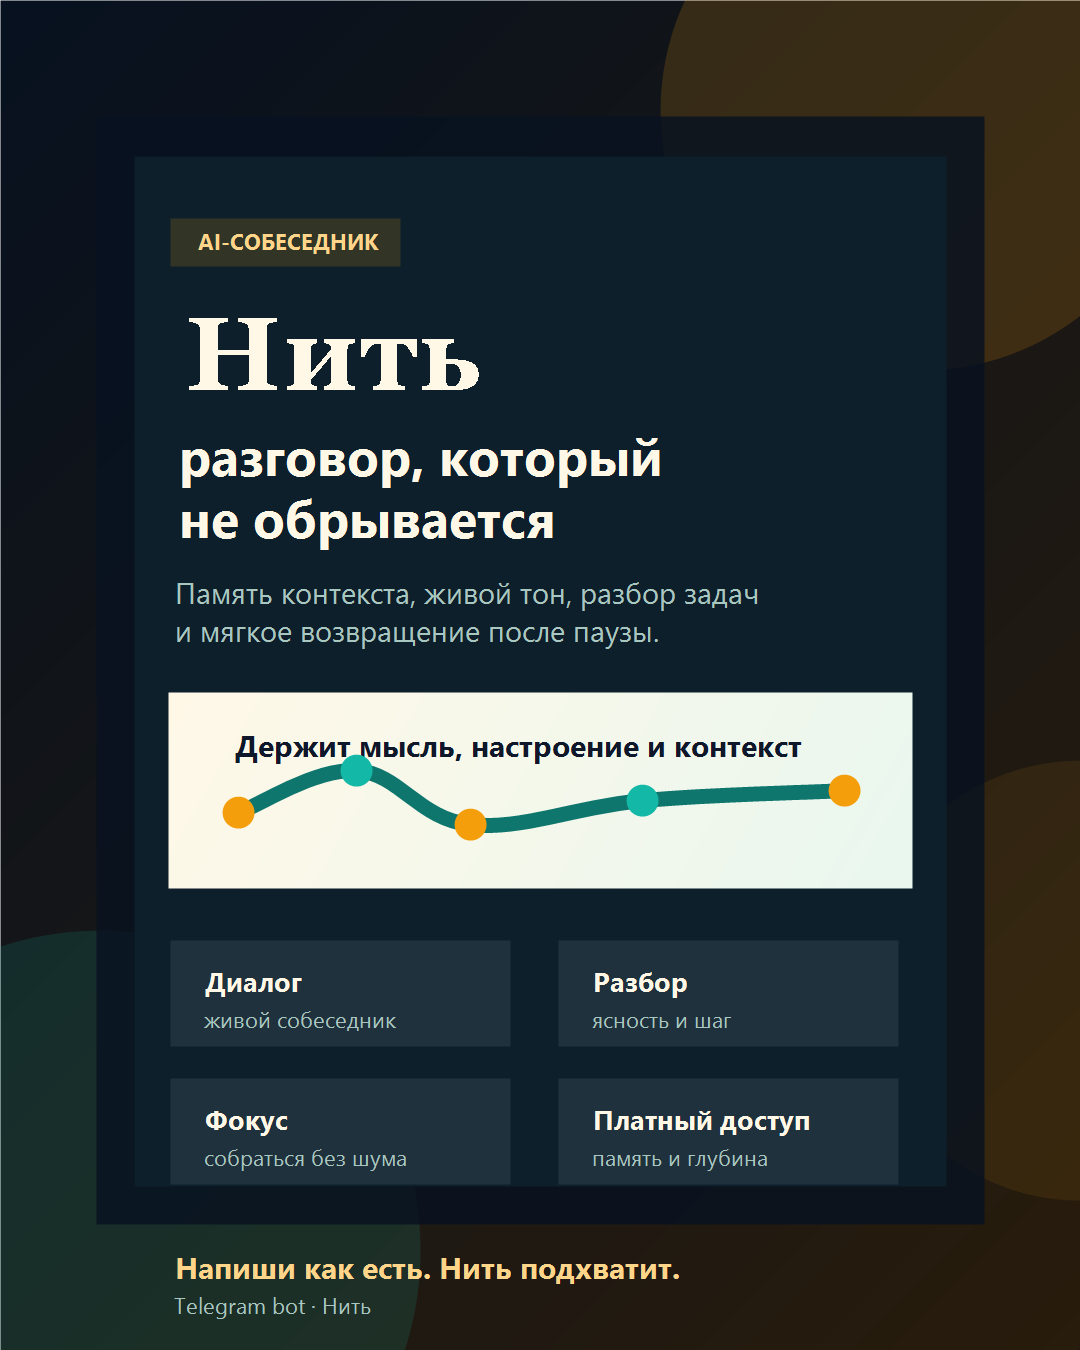
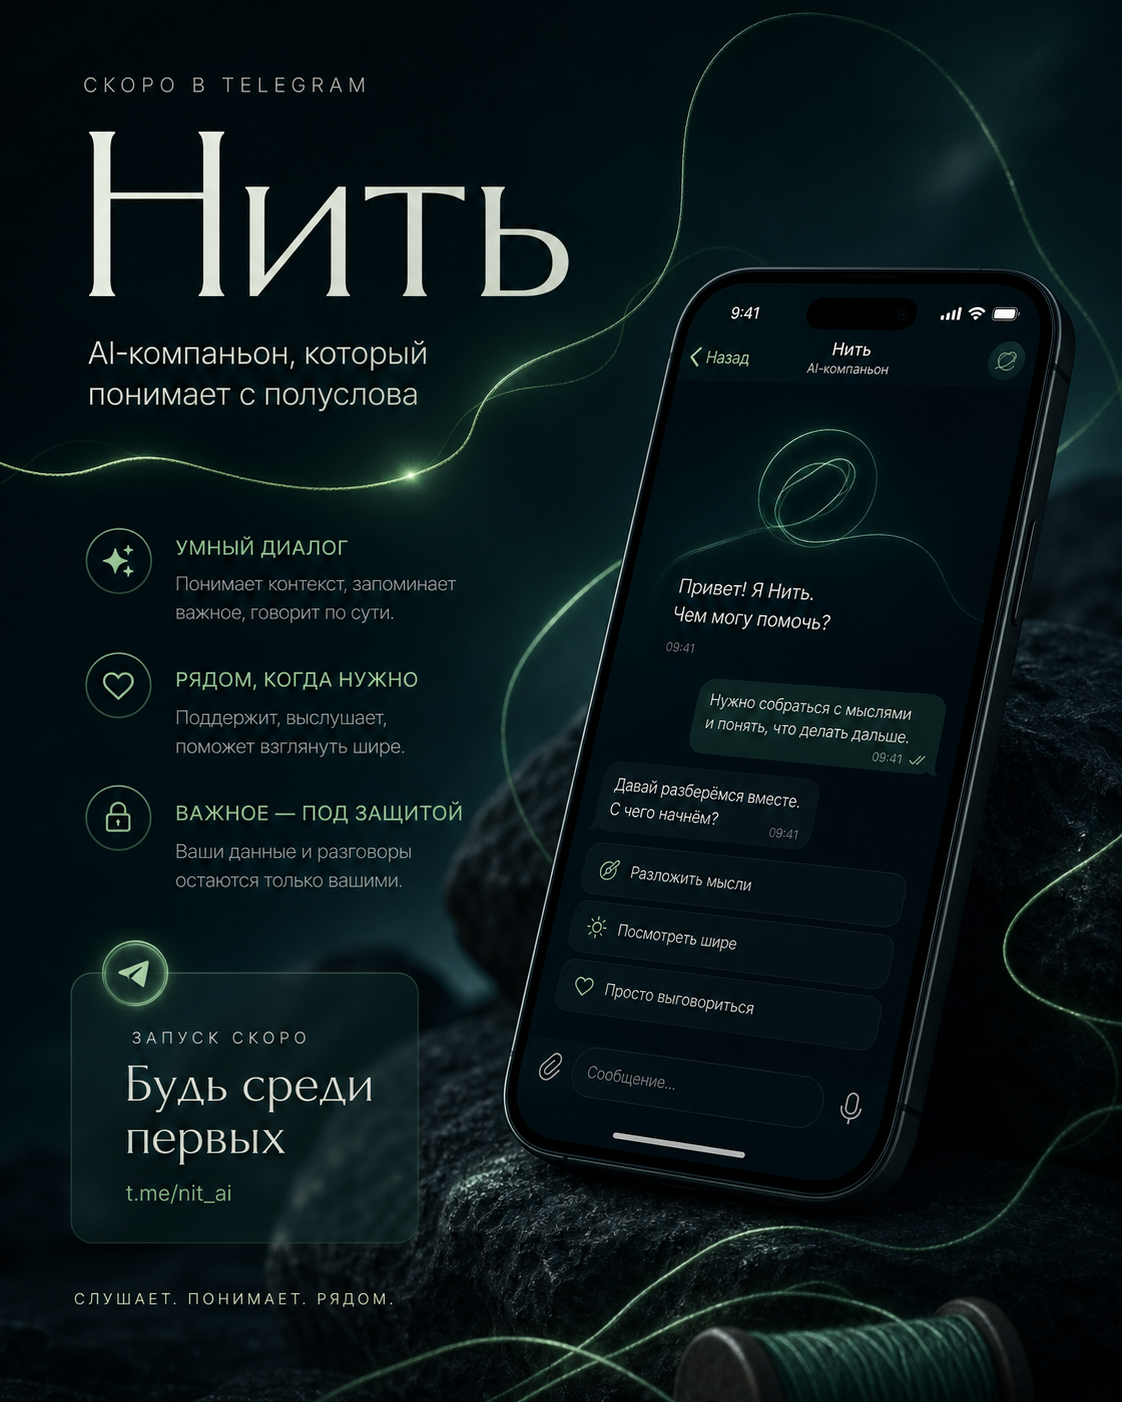
Refresh Nit launch visual and migration guide

diff --git a/docs/new-bot-migration.md b/docs/new-bot-migration.md
@@ -1,0 +1,42 @@
+# Перенос Нити на новый Telegram-бот
+
+Цель: запустить нового бота в едином стиле Нити без потери управляемости, платежей и проверок.
+
+## Что нужно подготовить
+
+- Новый бот в BotFather: имя, username, описание, about, команды.
+- Новый `BOT_TOKEN` для окружения продакшена.
+- Аватар бота: `assets/nit-avatar.png`.
+- Стартовая карточка: `assets/launch-card.png`.
+- Ссылка для продвижения: `https://t.me/<new_bot_username>`.
+- Если используются платежи Telegram, проверить provider token и соответствие нового бота платежному провайдеру.
+
+## Единый стиль
+
+- Образ: темный премиальный фон, световая нить, спокойный человеческий AI-компаньон.
+- Главный визуал запуска: `assets/launch-card.png`.
+- Аватар персонажа/бота: `assets/nit-avatar.png`.
+- Тон текста: не “ассистент”, а живой собеседник, который держит контекст и помогает продолжить мысль.
+- Основной CTA: “Напиши как есть. Нить подхватит.”
+
+## Шаги переноса
+
+1. Создать нового бота в BotFather и получить новый `BOT_TOKEN`.
+2. Поставить аватар `assets/nit-avatar.png` в профиль нового бота.
+3. Обновить секрет `BOT_TOKEN` в GitHub Actions или на сервере.
+4. Если меняется username, обновить `launch.bot_username`, UTM-ссылки и контент-план в админке.
+5. Запустить `python scripts/prelaunch_check.py`.
+6. Выполнить деплой через `deploy/run_github_deploy.ps1`.
+7. Проверить `/start`: должна прийти стартовая карточка `assets/launch-card.png`, приветствие и CTA.
+8. Проверить оплату тестовым тарифом или sandbox-сценарием, если он доступен.
+9. Проверить инициативные сообщения и вкладку админки с логами инициативы.
+
+## Что не переносится автоматически
+
+- Подписчики старого Telegram-бота не переезжают в нового автоматически.
+- История чатов пользователей в Telegram не переносится между ботами.
+- Если база остается той же, внутренние профили пользователей сохранятся, но Telegram ID должны прийти через нового бота заново.
+
+## Рекомендованный запуск
+
+Сначала держать старого бота как мост: отправить пользователям короткое сообщение с причиной переезда и ссылкой на нового бота. Новый бот должен сразу выглядеть цельно: аватар, стартовая карточка, описание, меню, приветствие, paywall и канал в одном визуальном языке.

diff --git a/docs/content-production-pipeline.md b/docs/content-production-pipeline.md
@@ -34,7 +34,8 @@
 
 - Название: `Нить: AI-собеседник`
 - Описание: `AI-собеседник с памятью для разборов, длинных задач и продолжения мысли.`
-- Аватар: использовать `assets/launch-card.svg` как визуальное направление или экспортировать его в PNG.
+- Аватар: использовать `assets/nit-avatar.png`.
+- Первый промо-визуал: использовать `assets/launch-card.png`; `assets/launch-card.svg` хранить как редактируемый исходник.
 - Закреплённый пост: взять Telegram-пост из `config/content_campaigns.json`.
 - Первые посты: обещание продукта, демо памяти, демо длинной задачи, объяснение дневного доступа.
 

diff --git a/docs/telegram-channel-launch.md b/docs/telegram-channel-launch.md
@@ -7,7 +7,7 @@
 1. Создать публичный Telegram-канал.
 2. Взять название из `launch.content_studio.telegram_channel.title`.
 3. Взять описание из `launch.content_studio.telegram_channel.description`.
-4. Экспортировать `assets/launch-card.svg` в PNG и использовать как первый визуальный ориентир.
+4. Использовать `assets/launch-card.png` как первый визуальный ориентир; `assets/launch-card.svg` оставить как редактируемый исходник.
 5. Вставить deep link бота в закреплённый пост.
 6. Добавлять бота администратором только если позже он должен публиковать посты.
 